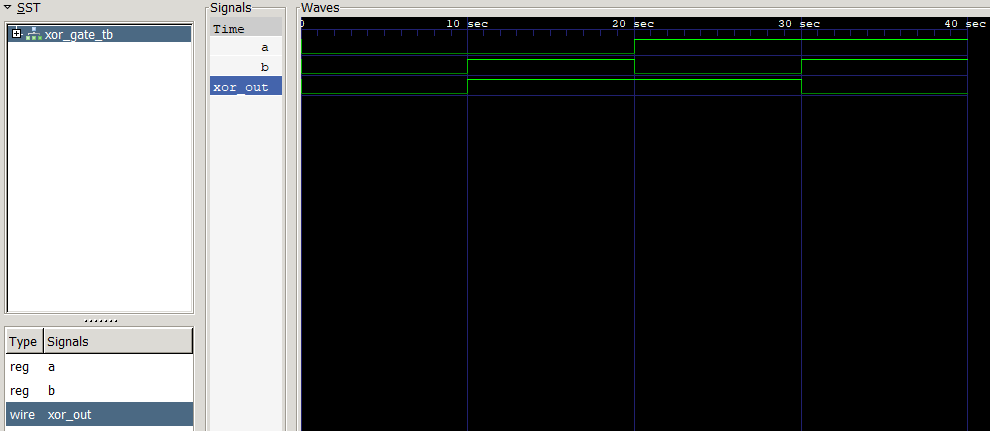
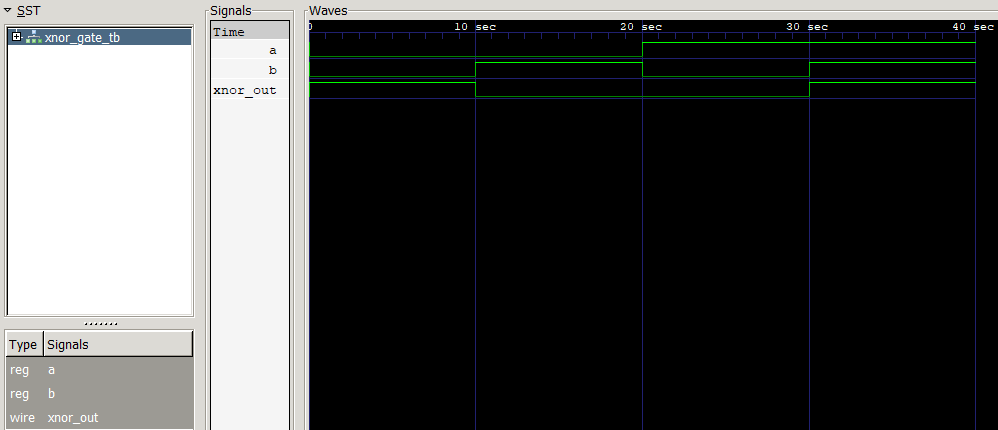
XNOR FIXED

Changed region(s): [[0.0, 0.0, 1.0, 1.0]]

diff --git a/README.md b/README.md
@@ -1,10 +1,9 @@
-# 🔧 Digital Design Learning Repository
+# Digital Design Learning Repository
 
 Welcome to my comprehensive Digital Design learning journey! This repository documents my exploration of digital systems, hardware description languages, and low-level programming concepts.
 
 
-
-## 🖼 Featured Projects: Verilog Logic Gates
+## Featured Projects: Verilog Logic Gates
 
 ### AND Gate Module and Testbench
 This project demonstrates a simple 2-input AND gate written in Verilog, along with its testbench and waveform output.
